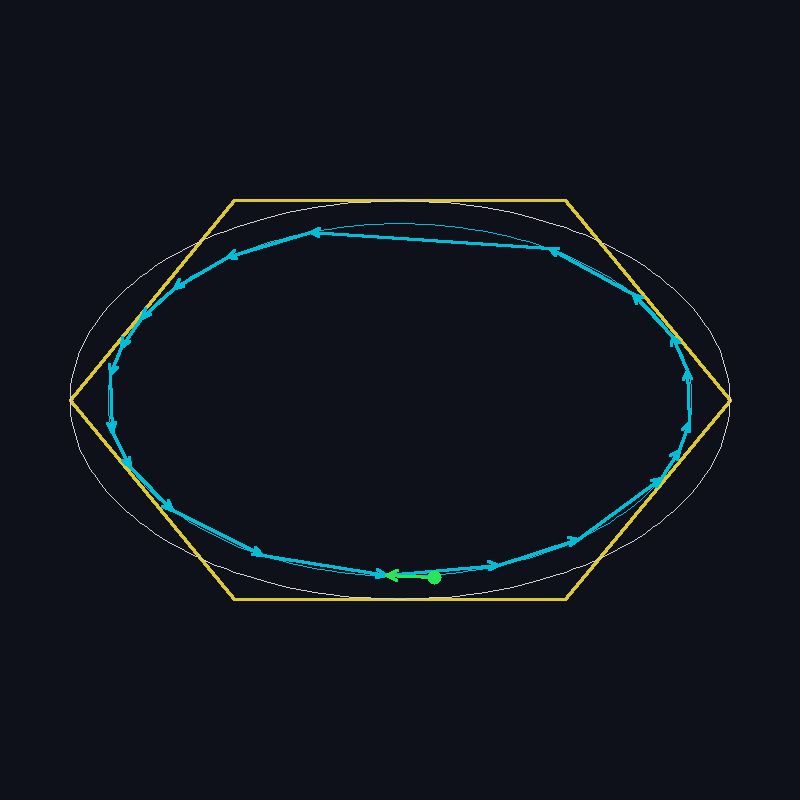
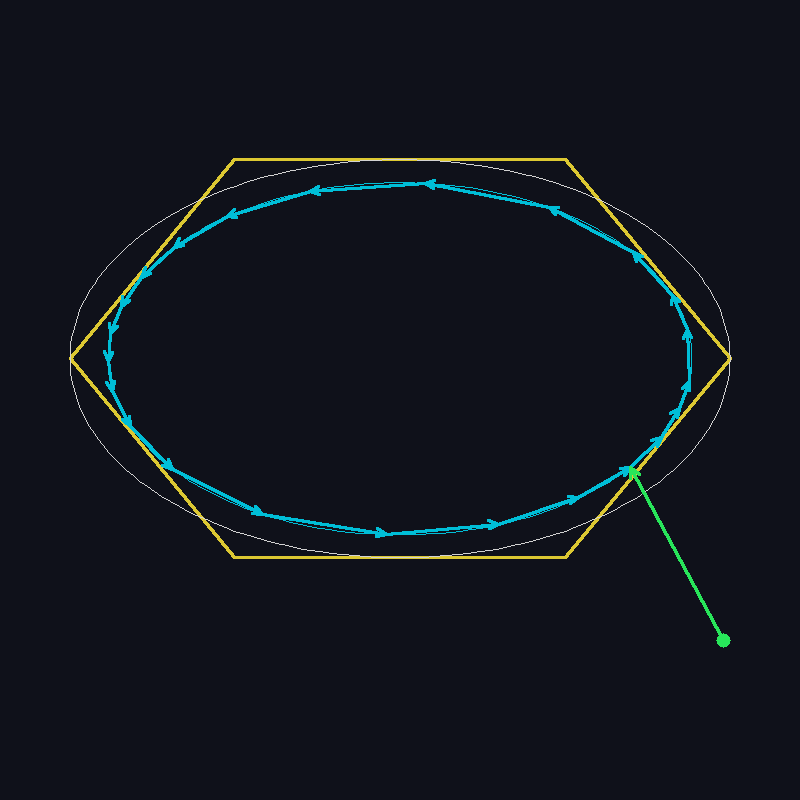
M2 Debug + Fixes
Fixed mapping. Handoff M1->M2 Works. Nav state waypoints update correctly.

Changed region(s): [[0.0625, 0.1875, 0.9375, 0.75], [0.875, 0.75, 0.9062, 0.8125], [0.8438, 0.6875, 0.875, 0.75]]

diff --git a/src/processing/mission2_waypoint.py b/src/processing/mission2_waypoint.py
@@ -12,7 +12,7 @@ from state.nav_state_utils import load_nav_state as load_state_nav, update_nav_s
 ###############################################################################
 # MISSION 2 CONFIGURATION
 ###############################################################################
-LOITER_RADIUS_FT    = 250.0  # Loiter circle radius written into active_plan.loiter_radius_ft (ft)
+LOITER_RADIUS_FT    = 3000.0  # Loiter circle radius written into active_plan.loiter_radius_ft (ft)
 BORDER_CLEARANCE_M  = 30.0   # Minimum distance circle edge must keep from search boundary (m)
 LOITER_SAMPLE_PTS   = 72     # Number of points sampled around circle circumference for checks
 UPDATE_INTERVAL_S   = 0.5    # Polling interval when waiting for target_location.valid (s)
@@ -288,24 +288,20 @@ def _arrow(pixels, width, height, x0, y0, x1, y1, r, g, b):
 
 
 def generate_image(search_xy, orig_centre, new_centre, radius_m,
-                   was_moved, loiter_radius_ft, alt_ft, o_lat, o_lon):
-    """
-    Render the mission 2 map PNG.
-
-    Elements:
-      Yellow polygon  — search area boundary
-      Dashed grey     — original loiter circle (only when nudged)
-      Solid cyan      — final loiter circle
-      Orange dot      — original centre (only when nudged)
-      Green dot       — final (possibly nudged) centre
-    """
+                   was_moved, loiter_radius_ft, alt_ft, o_lat, o_lon,
+                   plane_lat=None, plane_lon=None,
+                   target_lat=None, target_lon=None):
     W = H = 800
     PAD = 60
 
     # ---- world → screen transform ----------------------------------------
     all_x = [p[0] for p in search_xy]
     all_y = [p[1] for p in search_xy]
-    # Include both circle centres and circumference extents
+    # Include plane and raw target positions in extent so they're never clipped
+    for glat, glon in [(plane_lat, plane_lon), (target_lat, target_lon)]:
+        if glat is not None and glon is not None:
+            gx, gy = to_local(glat, glon, o_lat, o_lon)
+            all_x.append(gx); all_y.append(gy)
     for cx, cy in [(orig_centre[0], orig_centre[1]),
                    (new_centre[0],  new_centre[1])]:
         all_x += [cx - radius_m, cx + radius_m]
@@ -329,29 +325,30 @@ def generate_image(search_xy, orig_centre, new_centre, radius_m,
         x1, y1 = s(*search_xy[(i+1) % n])
         _line(pixels, W, H, x0, y0, x1, y1, 255, 220, 0)
 
-    # ---- original circle dashed grey (only when nudged) ------------------
-    if was_moved:
-        ocx, ocy = s(*orig_centre)
-        r_px = int(radius_m * scale)
-        _circle_outline(pixels, W, H, ocx, ocy, r_px, 130, 130, 130, dashed=True)
-        _filled_circle(pixels, W, H, ocx, ocy, 5, 255, 140, 0)   # orange dot
+    # ---- original circle — solid white (always drawn) --------------------
+    ocx, ocy = s(*orig_centre)
+    r_px = int(radius_m * scale)
+    _circle_outline(pixels, W, H, ocx, ocy, r_px, 255, 255, 255)
+    _filled_circle(pixels, W, H, ocx, ocy, 5, 255, 255, 255)        # white centre dot
 
-    # ---- final loiter circle (cyan) --------------------------------------
+    # ---- final nudged circle — solid cyan (only when moved) --------------
     ncx, ncy = s(*new_centre)
     r_px = int(radius_m * scale)
-    _circle_outline(pixels, W, H, ncx, ncy, r_px, 0, 220, 220)
+    if was_moved:
+        _circle_outline(pixels, W, H, ncx, ncy, r_px, 0, 220, 220)
+        _filled_circle(pixels, W, H, ncx, ncy, 5, 0, 220, 220)      # cyan centre dot
 
-    # ---- flight direction arrow along circle top -------------------------
-    ang0 = -math.pi / 2                     # top of circle
-    ang1 = ang0 + math.radians(30)
-    ax0  = int(ncx + r_px * math.cos(ang0))
-    ay0  = int(ncy + r_px * math.sin(ang0))
-    ax1  = int(ncx + r_px * math.cos(ang1))
-    ay1  = int(ncy + r_px * math.sin(ang1))
-    _arrow(pixels, W, H, ax0, ay0, ax1, ay1, 0, 220, 220)
+    # ---- mra_refined_loiter_target dot — orange (small, under plane dot) -
+    if target_lat is not None and target_lon is not None:
+        tx, ty = to_local(target_lat, target_lon, o_lat, o_lon)
+        tsx, tsy = s(tx, ty)
+        _filled_circle(pixels, W, H, tsx, tsy, 4, 255, 140, 0)      # orange, radius 4
 
-    # ---- final centre dot (green) ----------------------------------------
-    _filled_circle(pixels, W, H, ncx, ncy, 6, 0, 255, 80)
+    # ---- plane position dot — green (stacked on top of orange) -----------
+    if plane_lat is not None and plane_lon is not None:
+        gx, gy = to_local(plane_lat, plane_lon, o_lat, o_lon)
+        gsx, gsy = s(gx, gy)
+        _filled_circle(pixels, W, H, gsx, gsy, 6, 0, 255, 80)       # green, radius 6
 
     # ---- info text (burn pixels manually — keep stdlib only) -------------
     # Skip font rendering; embed metadata in filename comment instead.
@@ -414,9 +411,9 @@ def run_mission_2():
             raise ValueError(f"Invalid search_area entry: {entry}")
         search_coords.append((float(entry[0]), float(entry[1])))
 
-    # Origin for local-metre frame
-    o_lat = sum(p[0] for p in search_coords) / 4
-    o_lon = sum(p[1] for p in search_coords) / 4
+    n_coords = len(search_coords)
+    o_lat = sum(p[0] for p in search_coords) / n_coords
+    o_lon = sum(p[1] for p in search_coords) / n_coords
 
     local_pts = [to_local(lat, lon, o_lat, o_lon) for lat, lon in search_coords]
     search_xy = sort_clockwise(local_pts)   # closed convex quad in local metres
@@ -475,6 +472,10 @@ def run_mission_2():
 
     print(f"[LOITER] Radius: {loiter_radius_ft} ft  |  alt: {alt_ft} ft")
 
+    telem = read_latest_telemetry(fusion_log_path)
+    plane_lat = telem.get("lat_deg") if telem else None
+    plane_lon = telem.get("lon_deg") if telem else None
+
     if GENERATE_IMAGE:
         try:
             generate_image(
@@ -487,6 +488,10 @@ def run_mission_2():
                 alt_ft       = alt_ft,
                 o_lat        = o_lat,
                 o_lon        = o_lon,
+                plane_lat        = plane_lat,
+                plane_lon        = plane_lon,
+                target_lat       = target_lat,
+                target_lon       = target_lon,
             )
         except Exception:
             import traceback
@@ -508,10 +513,9 @@ def run_mission_2():
     # ------------------------------------------------------------------
     print("[MISSION 2] Loitering … waiting for target_location.valid …")
 
-    telem = read_latest_telemetry(fusion_log_path)
     if telem:
-        print(f"[TELEM] Plane at ({telem.get('lat_deg'):.6f}, "
-              f"{telem.get('lon_deg'):.6f}), yaw={telem.get('yaw_deg', 0):.1f}°")
+        print(f"[TELEM] Plane at ({plane_lat:.6f}, {plane_lon:.6f}), "
+              f"yaw={telem.get('yaw_deg', 0):.1f}°")
 
     try:
         while True:

diff --git a/src/processing/mission1_waypoint.py b/src/processing/mission1_waypoint.py
@@ -9,20 +9,17 @@ sys.path.append(str(Path(__file__).resolve().parents[1]))
 from state.mission_state_utils import load_state, update_state
 from state.nav_state_utils import load_nav_state, update_nav_state
 
-#######################################################################################################################################
-### JUST AS A NOTE, THIS WAYPOINT SYSTEM WILL ONLY WORK IF THE SEARCH AREA IS A **CONVEX** QUADRILATERAL. IT WILL NOT WORK FOR CONCAVE. 
-#######################################################################################################################################
 
 STANDBY_INTERVAL_S = 1.0    # Polling interval while waiting for autonomy_active (s)
 
 # MISSION 1 CONFIGURATION
 MIN_TURN_ANGLE_DEG      = 15.0   # Minimum heading change per waypoint segment (deg)
 WAYPOINT_RADIUS_FT      = 20.0   # Waypoint capture radius (ft)  ~20 m (# Capture radius: advance to next WP within this distance (ft))
-BORDER_CLEARANCE_FT     = 50.0  # Minimum clearance from boundary (ft)  (# Diamond corners must be at least this far from search border (ft)    ###################### Adjust this as necessary)
+BORDER_CLEARANCE_FT     = 50.0  # Minimum clearance from boundary (ft)     ###################### Adjust this as necessary)
 STRAIGHT_SPACING_FACTOR = 5.0    # Waypoint spacing on straights = factor × R
 CURVATURE_SPACING_FACTOR= 0.5    # Waypoint spacing on tight curves = factor × R
 CURVATURE_SENSITIVITY   = 2.0    # Higher = denser waypoints near turns
-MAXIMUM_WAYPOINTS       = 20     # Hard cap on waypoints written to JSON (0 = no limit)
+MAXIMUM_WAYPOINTS       = 30     # Hard cap on waypoints written to JSON (0 = no limit)
 
 FT_TO_M              = 0.3048
 BORDER_CLEARANCE_M   = BORDER_CLEARANCE_FT   * FT_TO_M
